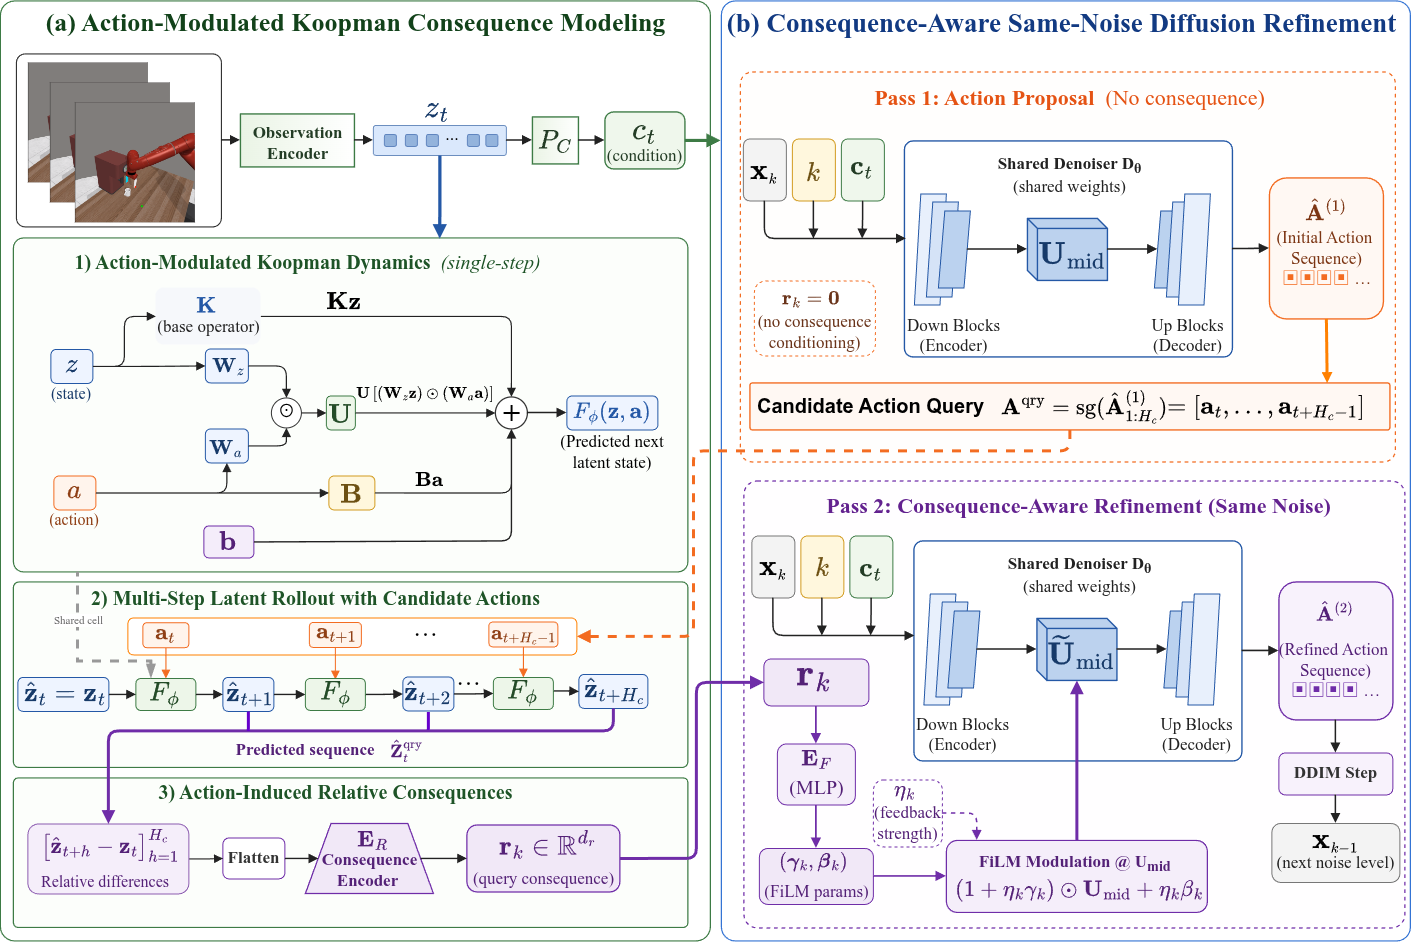
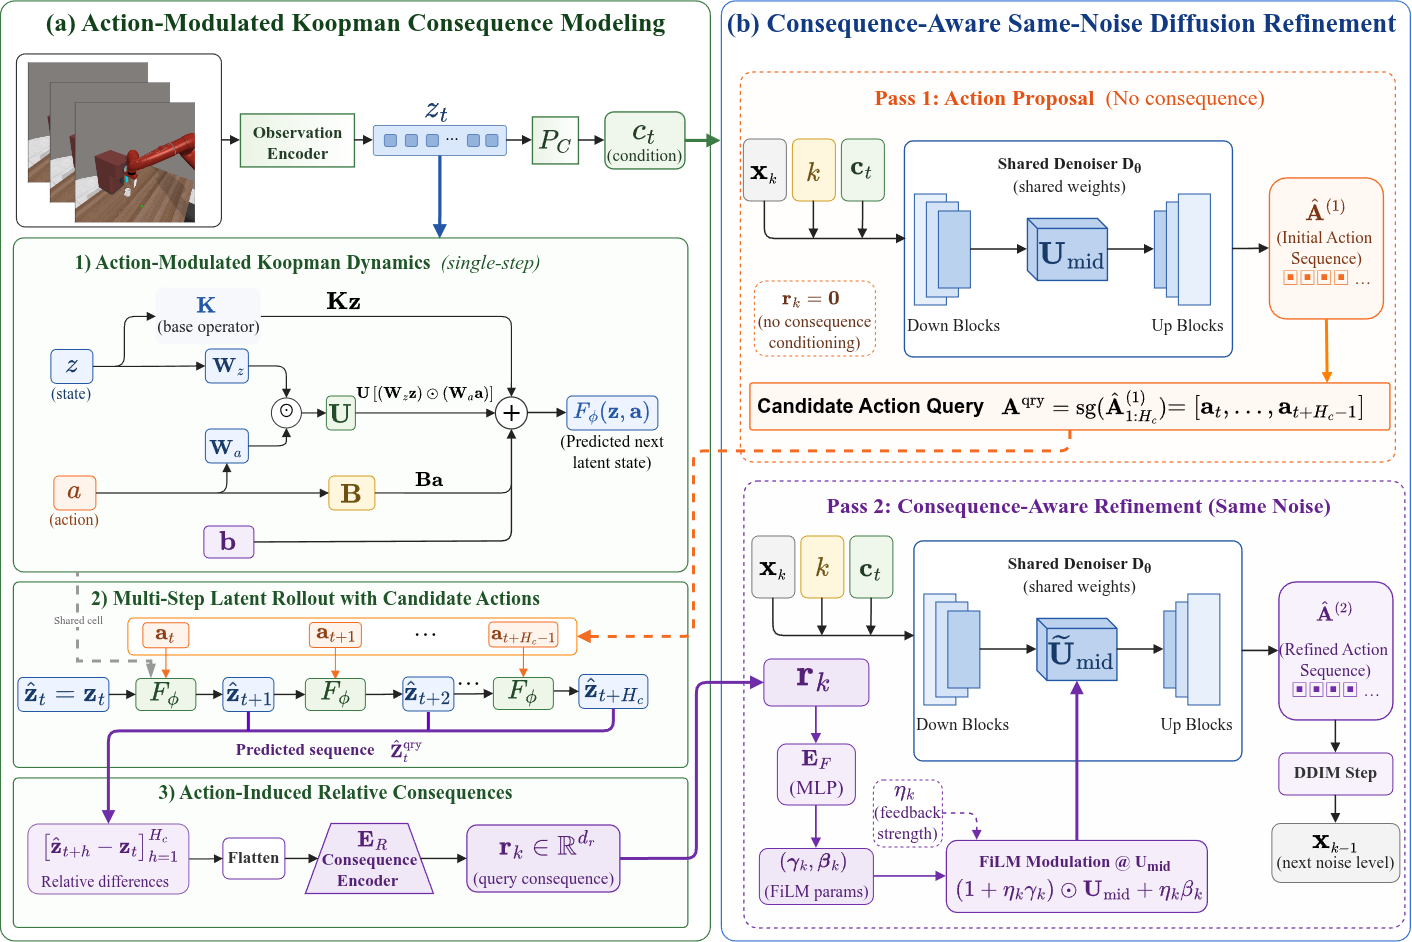
Update pipeline figure

diff --git a/index.html b/index.html
@@ -65,7 +65,7 @@
       <div class="container is-max-desktop has-text-centered">
         <h2 class="title is-3">Method Overview</h2>
         <figure class="method-figure">
-          <img src="static/images/pipeline.png" alt="Overview of the FASK pipeline" loading="lazy">
+          <img src="static/images/pipeline.png?v=ee106639" alt="Overview of the FASK pipeline" loading="lazy">
         </figure>
         <div class="content has-text-justified method-copy">
           <p>
